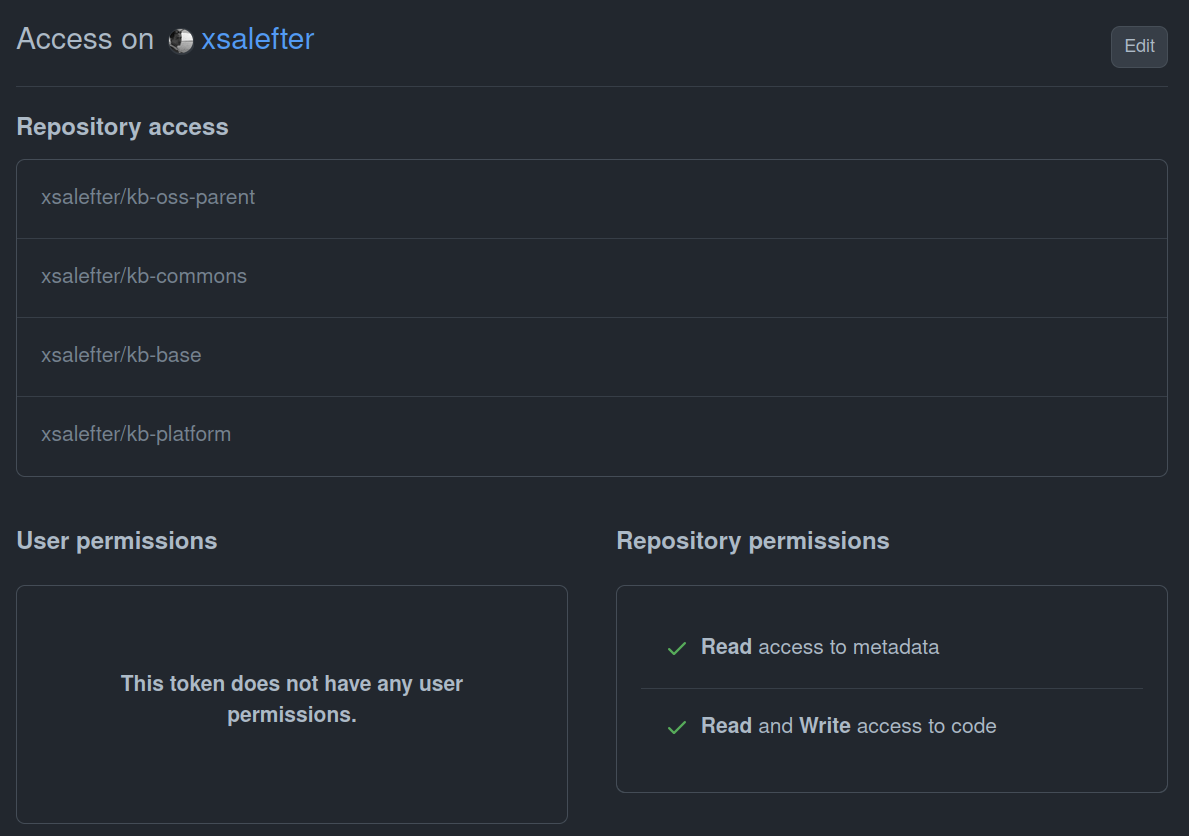
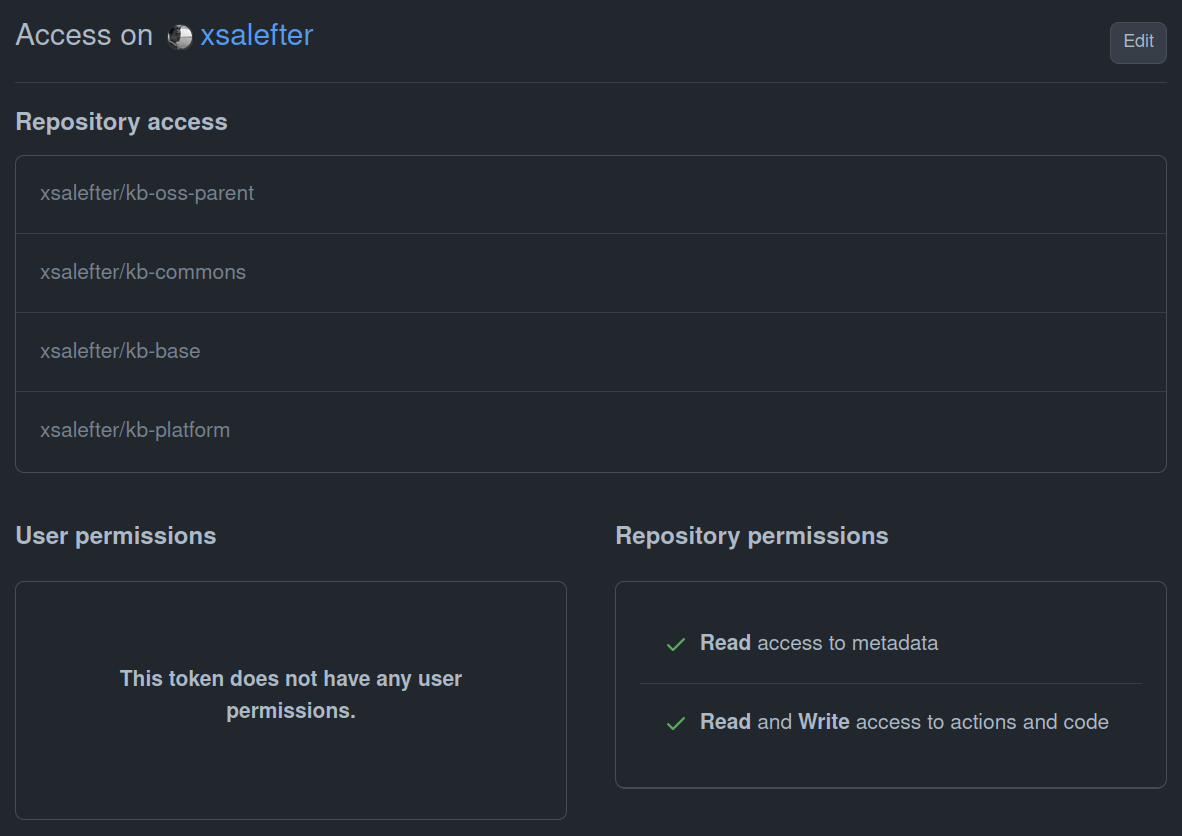
update README.md, add actions:read&write

diff --git a/README.md b/README.md
@@ -52,7 +52,7 @@ The `repository_dispatch` event in this repository defined by [release-dispatch.
 How to create Personal Access Token:
 - Go to your [developer settings](https://github.com/settings/apps), and then `-> Personal Access Token -> Fine-grained Tokens`.
 - Click "generate new token" button, and configure it so that have an access like in the picture below.
-- Set `metadata:read` and `contents:read&write` (note that `contents` permission in screenshot labeled as `code`).
+- Set `metadata:read`, `actions:read&write` and `contents:read&write` (note that `contents` permission in screenshot labeled as `code`).
 - This PAT need to set in each GitHub Action's secrets in each repository that send an event
   (For example, see line: `GITHUB_TOKEN: ${{ secrets.GH_SECRET }}` in `kb-commons/.github/workflows/release.yml`).
 
